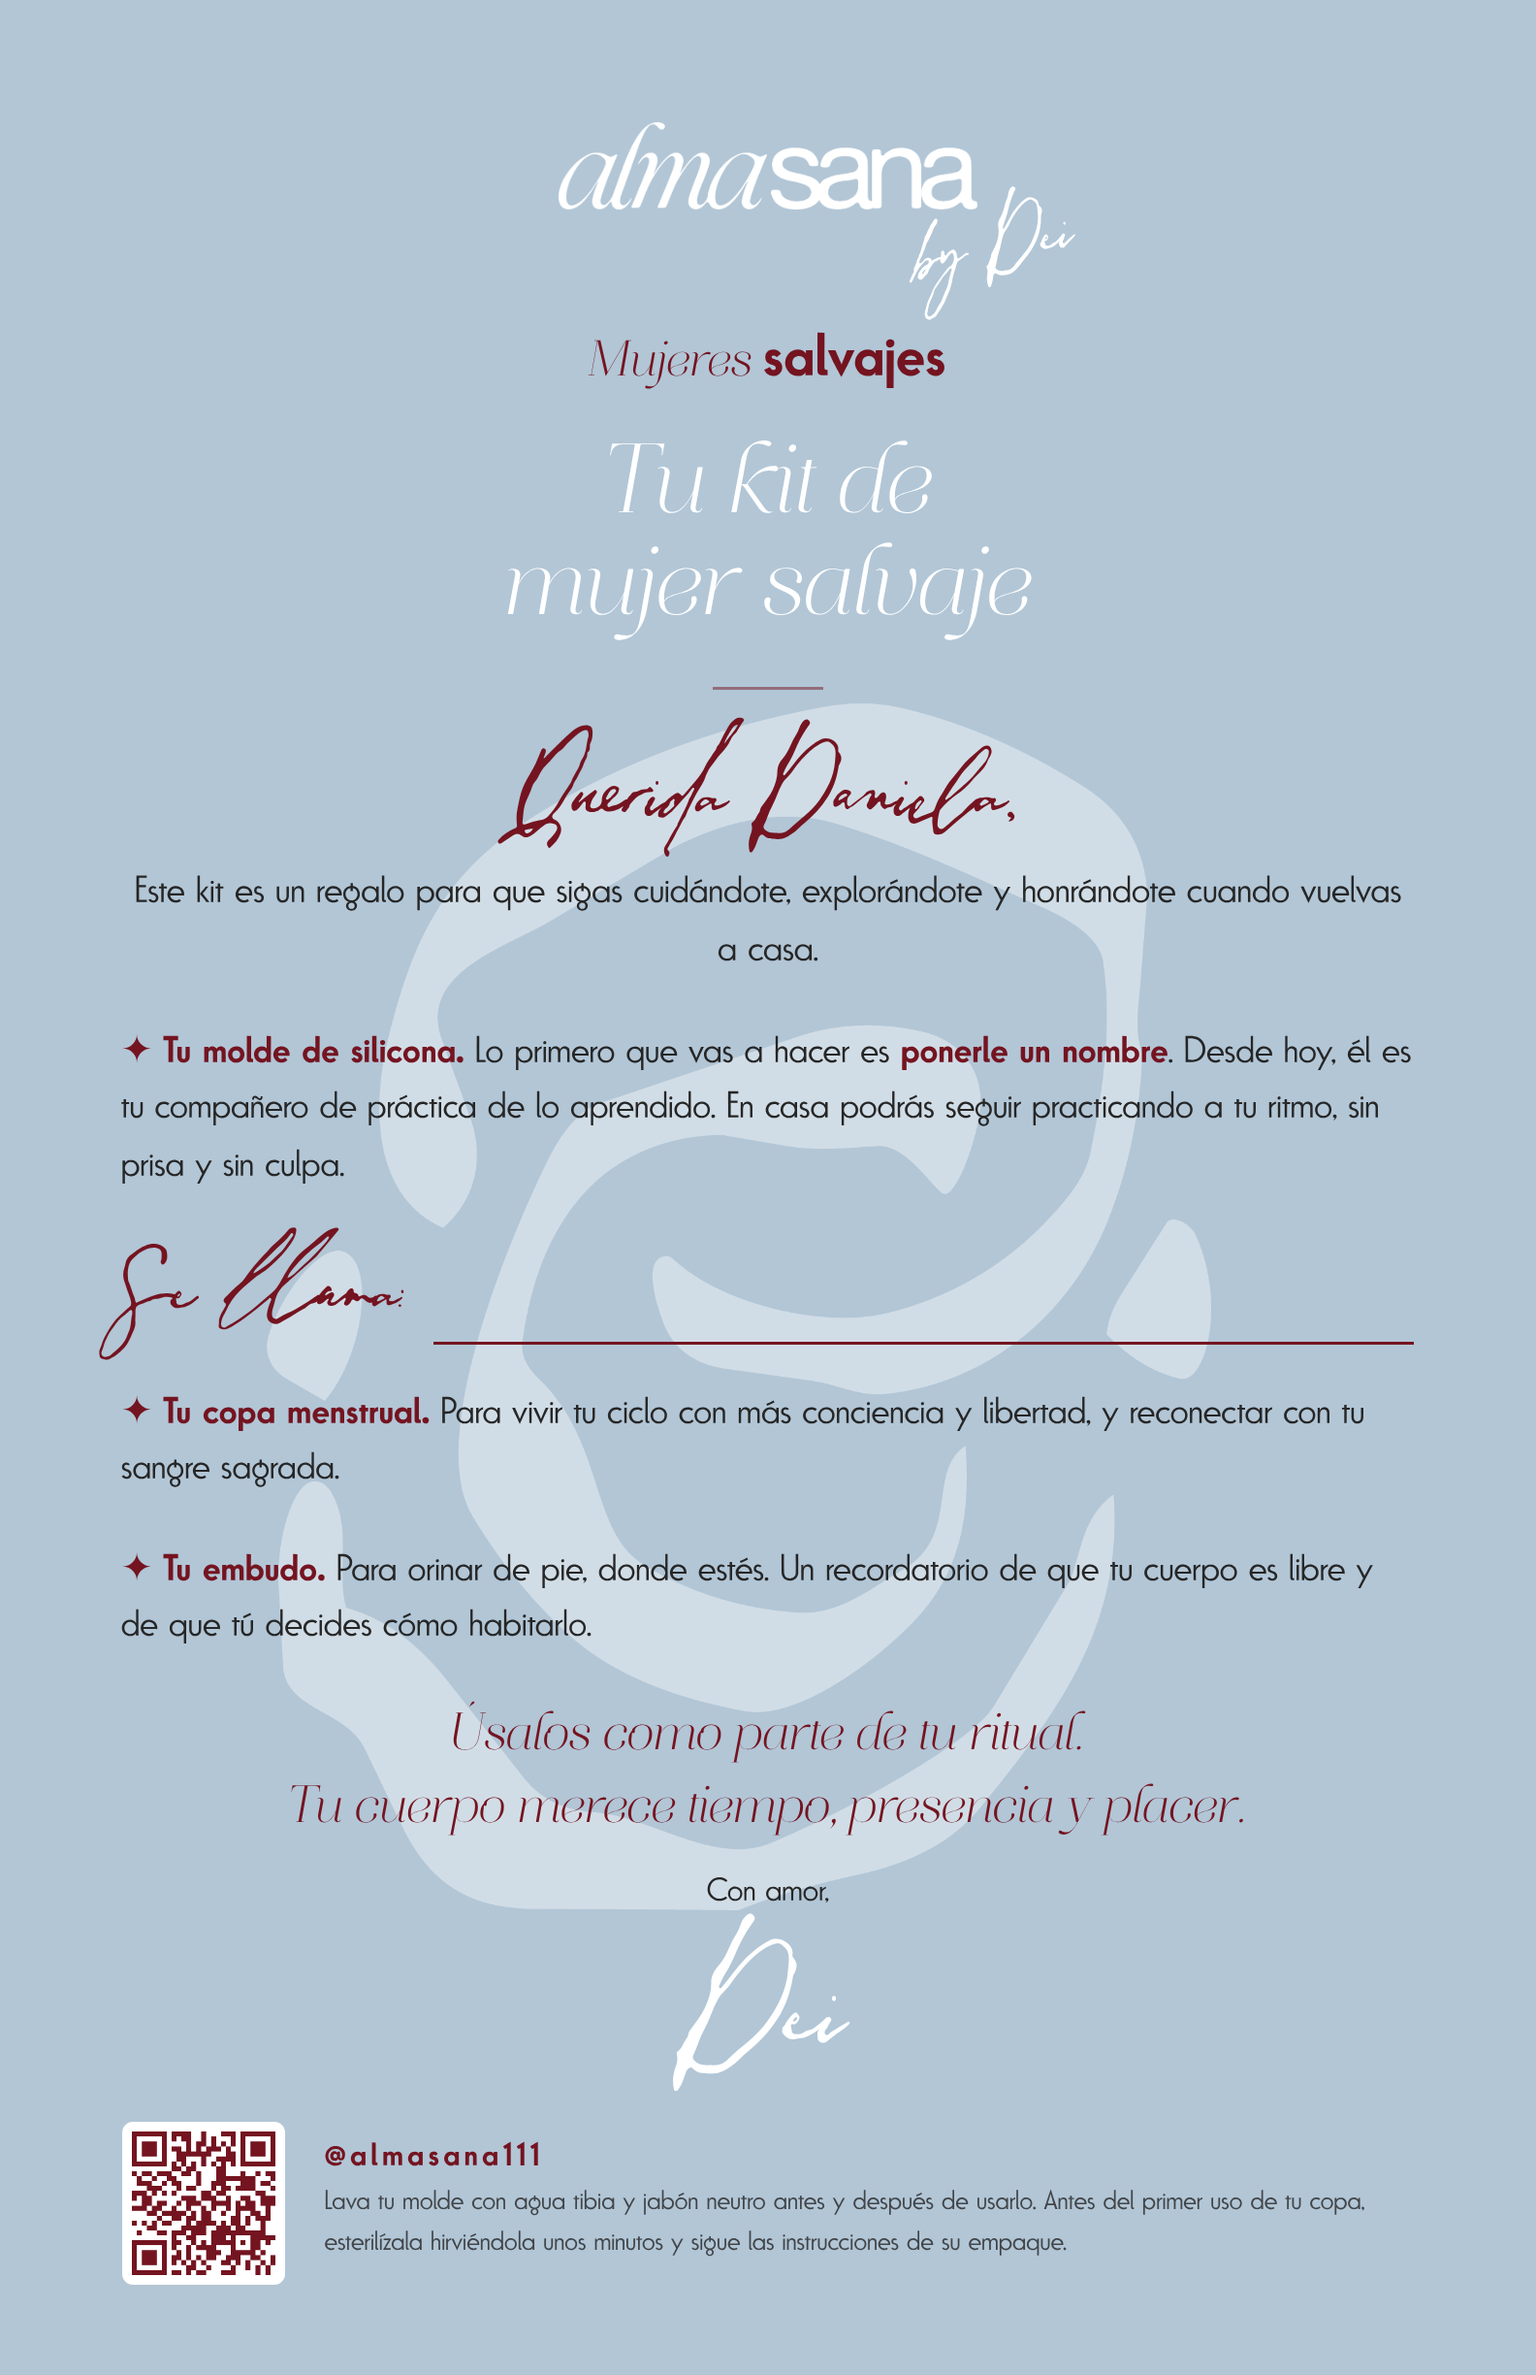
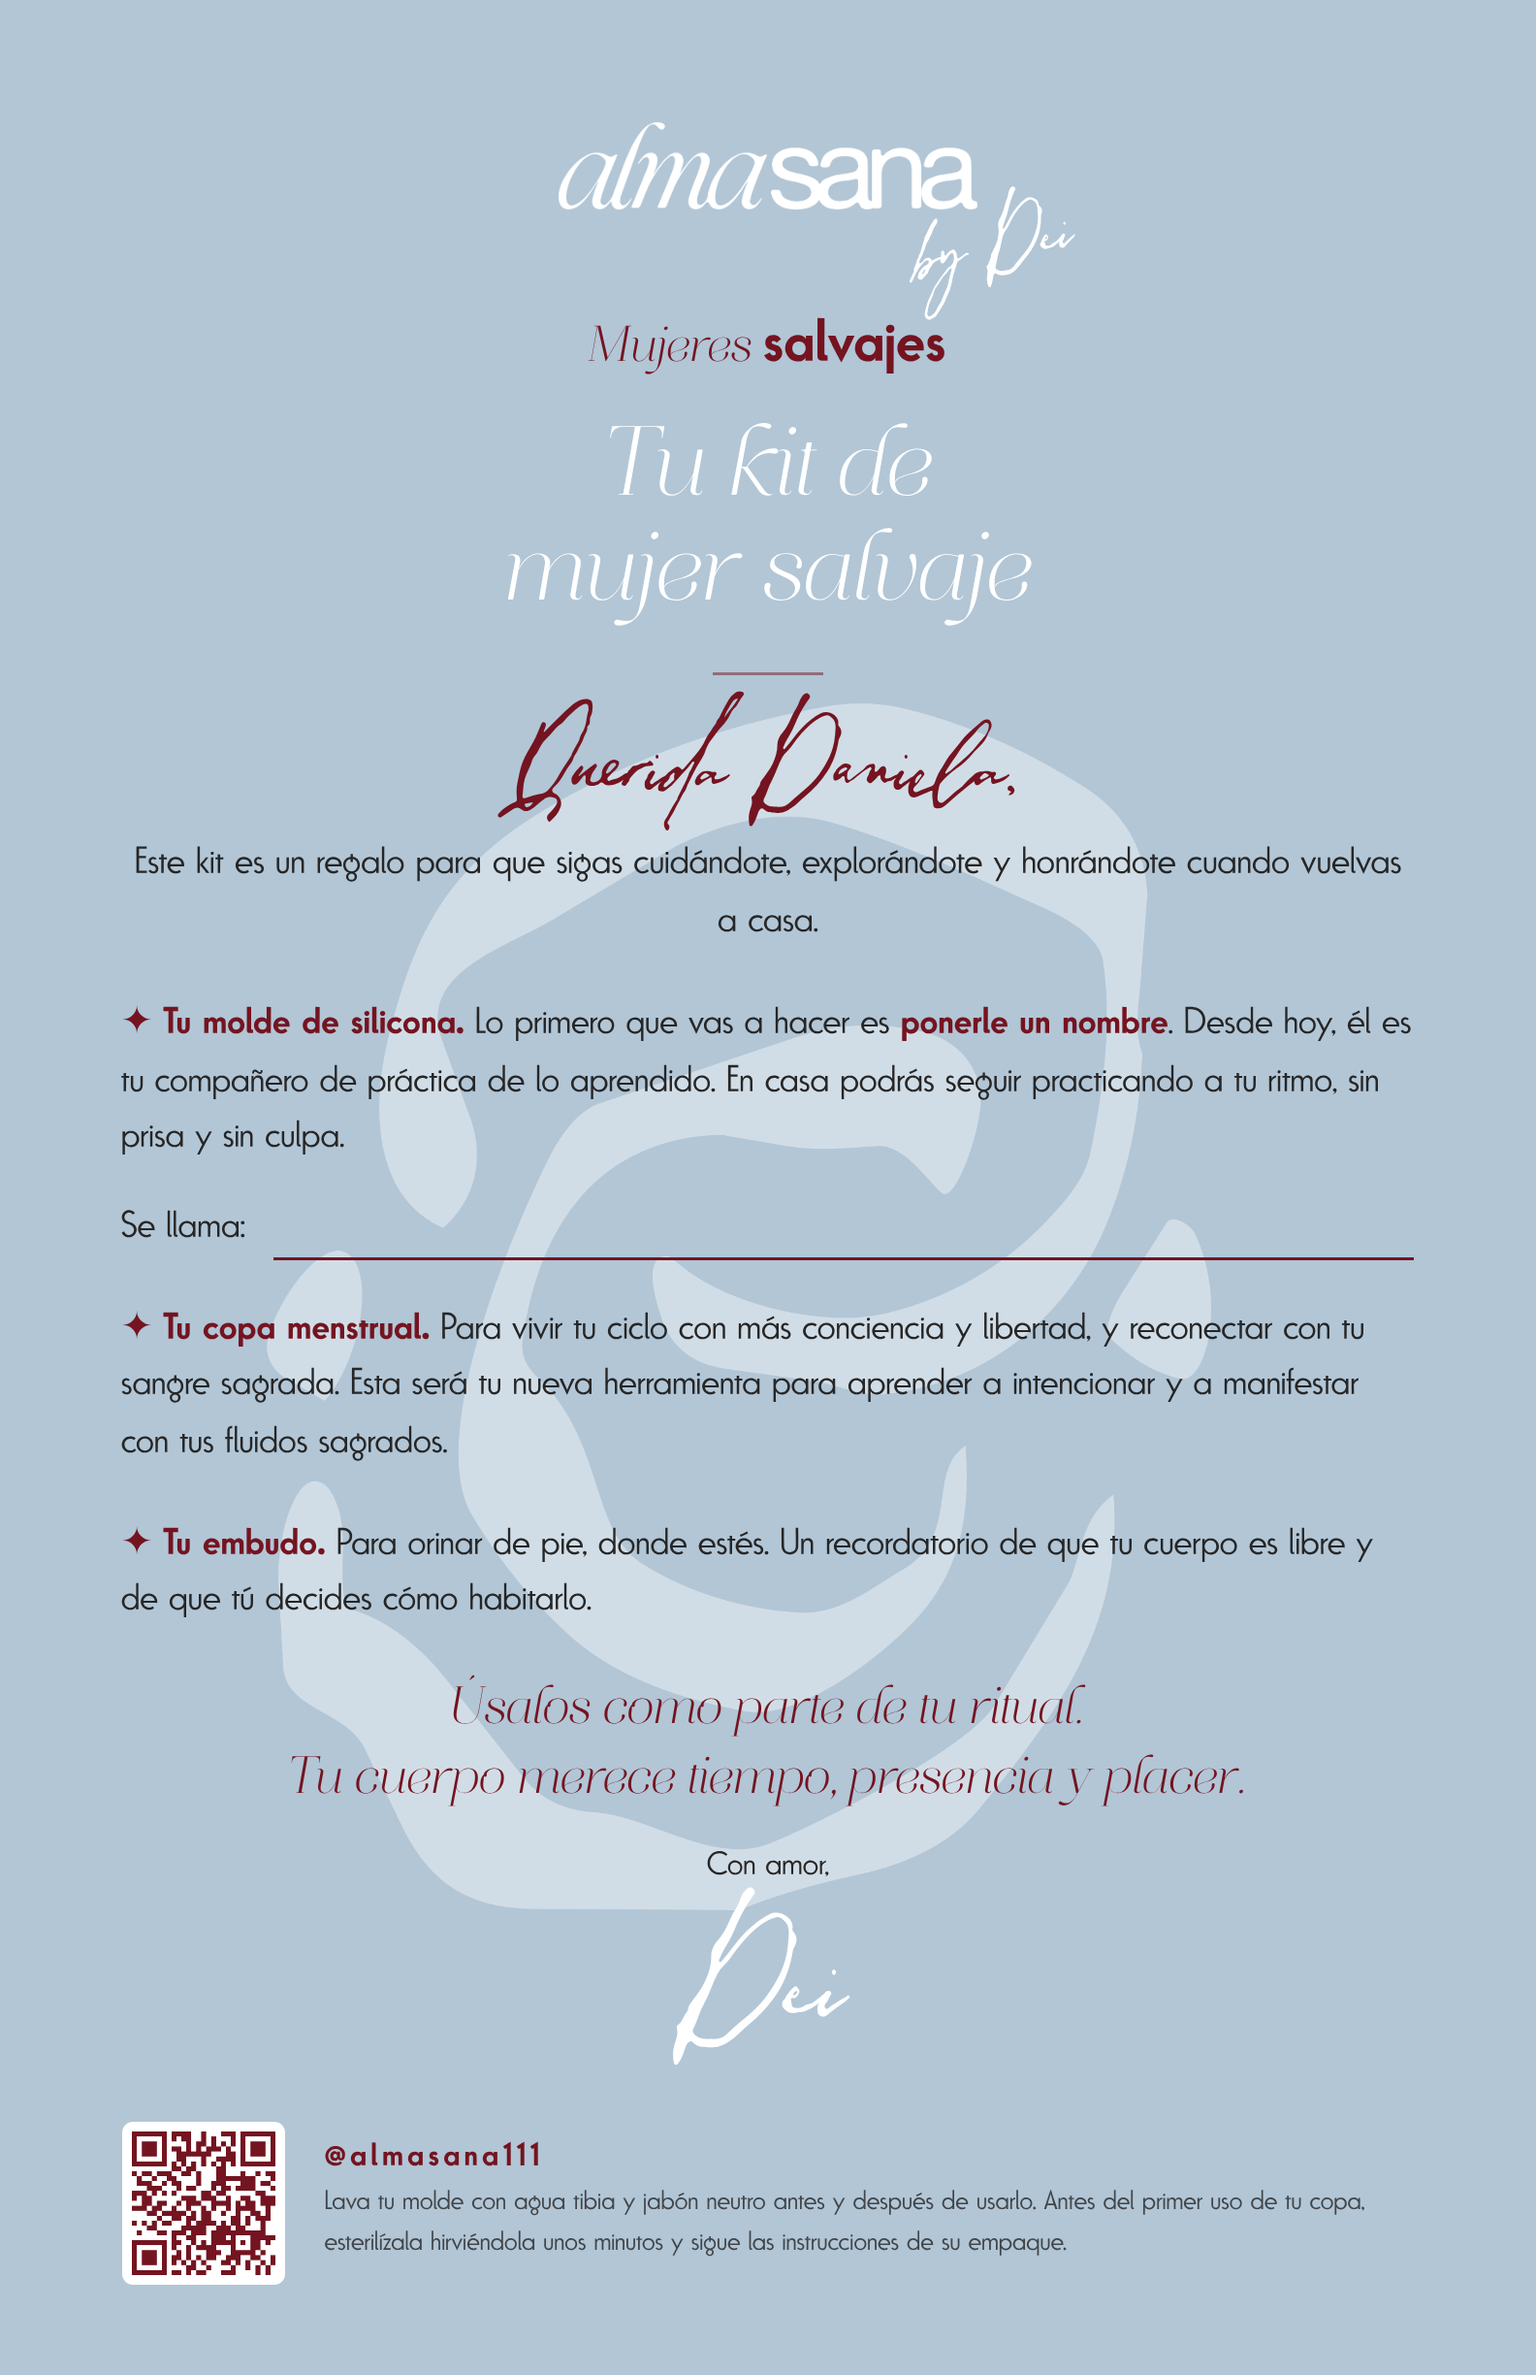
Kit card: plain 'Se llama', cup manifesting line
Claude-Session: https://claude.ai/code/session_014KKHDmVPJSKEnC1rY1uwgD

diff --git a/kit/tarjeta.html b/kit/tarjeta.html
@@ -14,17 +14,17 @@ body{-webkit-print-color-adjust:exact;print-color-adjust:exact;font-family:"PenG
 .card>.wm{position:absolute}
 .lw{position:relative;width:38mm}.lw img{width:38mm;display:block}
 .by{position:absolute;right:-9mm;top:100%;margin-top:2.8mm;font-family:"Emilia";font-size:4.3mm;line-height:1;white-space:nowrap;transform:rotate(-10deg);transform-origin:left center;color:#fff}
-.ev{margin-top:11mm;line-height:1}.ev .m{font-family:"Aire";font-size:4.6mm}.ev .s{font-weight:700;font-size:5.6mm;margin-left:1mm}
+.ev{margin-top:9.5mm;line-height:1}.ev .m{font-family:"Aire";font-size:4.6mm}.ev .s{font-weight:700;font-size:5.6mm;margin-left:1mm}
 h1{font-family:"Aire";font-weight:400;font-size:9mm;line-height:1.05;margin-top:4mm;color:#fff}
 .rule{width:10mm;height:.3mm;background:#741420;opacity:.5;margin:4mm auto 0}
-.hello{font-family:"Emilia";font-size:6mm;line-height:1.5;margin-top:5.5mm;color:#741420}
+.hello{font-family:"Emilia";font-size:6mm;line-height:1.5;margin-top:4.5mm;color:#741420}
 .intro{font-weight:300;font-size:3.5mm;line-height:1.5;margin-top:1.5mm;color:#262626}
 .items{margin-top:4mm;display:flex;flex-direction:column;gap:4mm;text-align:left;width:100%}
 .it{font-weight:300;font-size:3.45mm;line-height:1.5;color:#262626}
 .it b{font-weight:700;color:#741420}
 .it .st{color:#741420}
-.name{margin-top:3.5mm;display:flex;align-items:flex-end;gap:2.5mm;font-family:"Emilia";font-size:5.2mm;line-height:1.6;color:#741420;padding-top:1.5mm}
-.name span{flex:1;border-bottom:.3mm solid #741420;height:6mm}
+.name{margin-top:3mm;display:flex;align-items:flex-end;gap:2.5mm;font-family:"PenGram";font-weight:300;font-size:3.45mm;line-height:1.5;color:#262626}
+.name span{flex:1;border-bottom:.3mm solid #741420;height:5mm}
 .close{font-family:"Aire";font-size:4.8mm;line-height:1.35;margin-top:4mm}
 .sign{margin-top:3mm;font-weight:300;font-size:3mm;color:#262626}
 .sign em{display:block;font-family:"Emilia";font-style:normal;font-size:8mm;color:#fff;line-height:1.1;margin-top:6mm}
@@ -44,7 +44,7 @@ h1{font-family:"Aire";font-weight:400;font-size:9mm;line-height:1.05;margin-top:
 <div class="items">
 <div class="it"><span class="st">✦</span> <b>Tu molde de silicona.</b> Lo primero que vas a hacer es <b>ponerle un nombre</b>. Desde hoy, él es tu compañero de práctica de lo aprendido. En casa podrás seguir practicando a tu ritmo, sin prisa y sin culpa.
 <div class="name">Se llama: <span></span></div></div>
-<div class="it"><span class="st">✦</span> <b>Tu copa menstrual.</b> Para vivir tu ciclo con más conciencia y libertad, y reconectar con tu sangre sagrada.</div>
+<div class="it"><span class="st">✦</span> <b>Tu copa menstrual.</b> Para vivir tu ciclo con más conciencia y libertad, y reconectar con tu sangre sagrada. Esta será tu nueva herramienta para aprender a intencionar y a manifestar con tus fluidos sagrados.</div>
 <div class="it"><span class="st">✦</span> <b>Tu embudo.</b> Para orinar de pie, donde estés. Un recordatorio de que tu cuerpo es libre y de que tú decides cómo habitarlo.</div>
 </div>
 <p class="close">Úsalos como parte de tu ritual.<br>Tu cuerpo merece tiempo, presencia y placer.</p>
